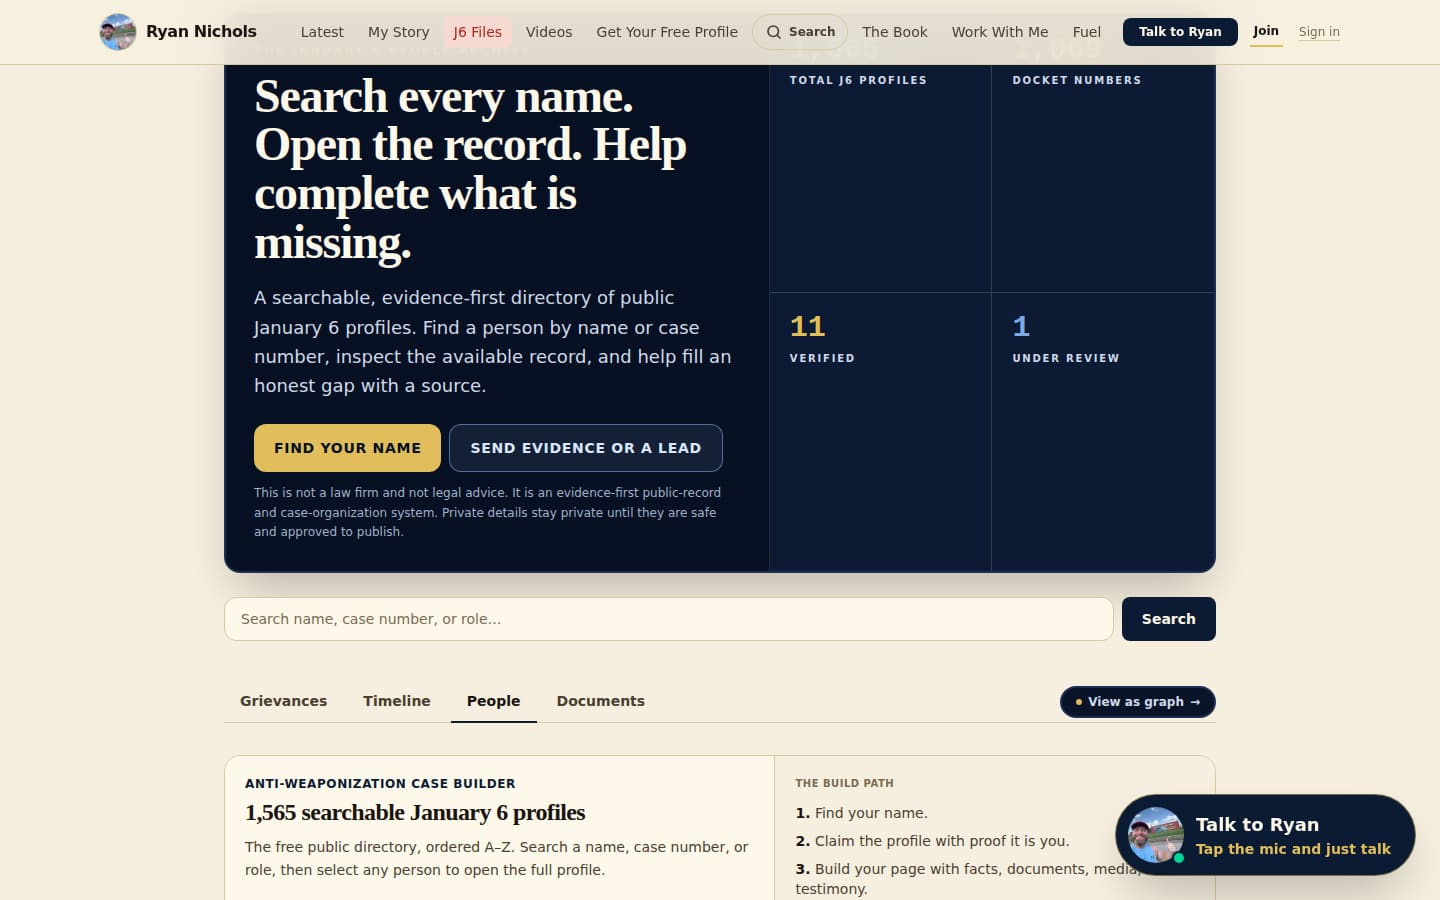
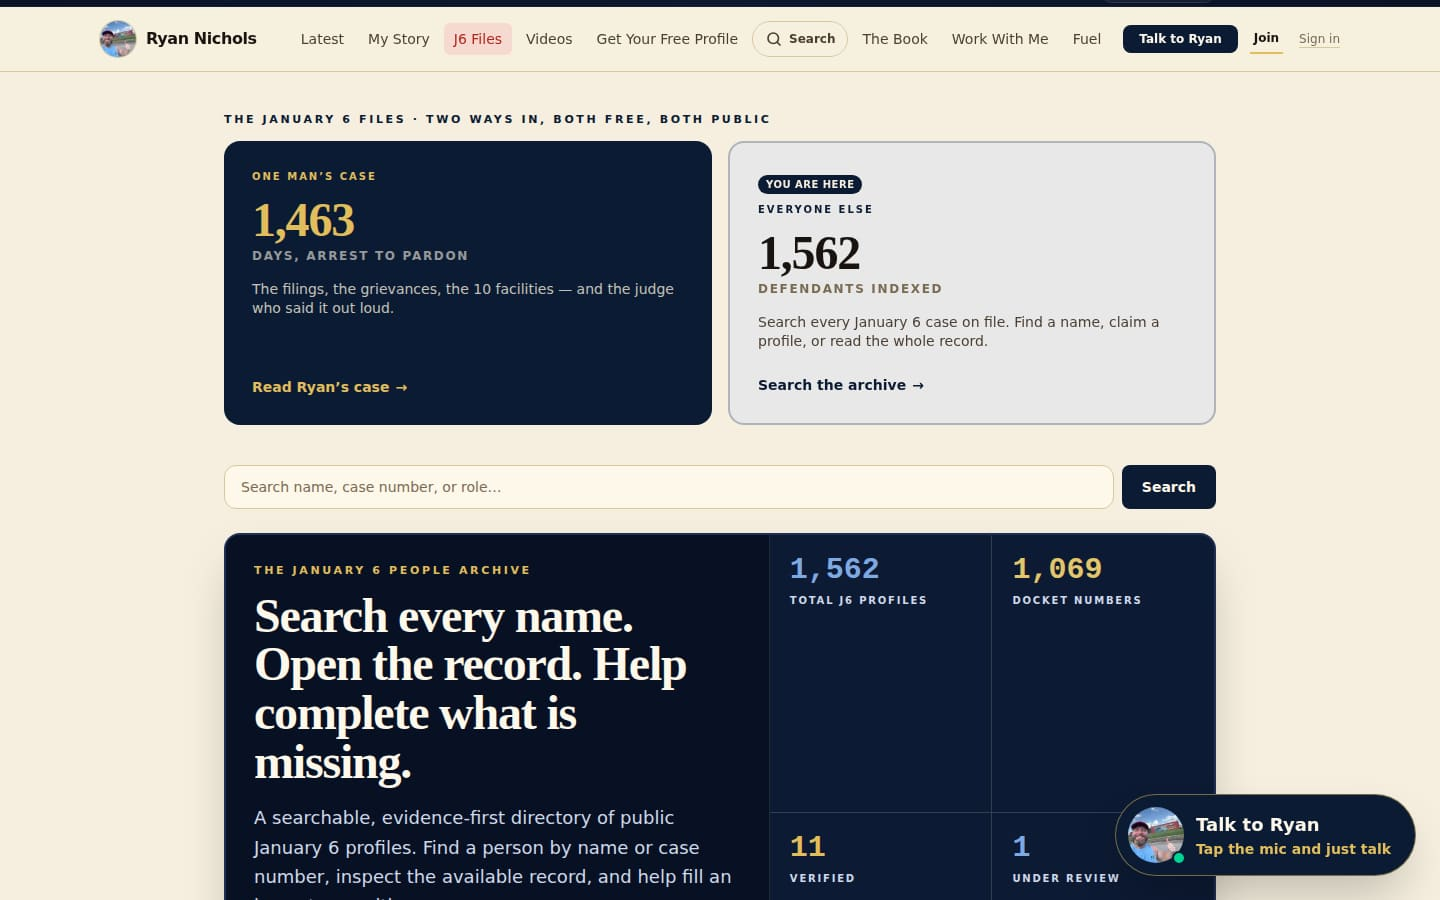
Move 11 review: a search hides the hero, so the matches follow the count
While a search is on, the people directory's hero stays out: the match
line sits directly above the bucket tabs and the matching profiles,
with no pitch to scroll past on a phone. The path split carries the h1
in that state, as it does on the archive views; while browsing the hero
keeps it. The desktop after-shots are regenerated from this build (the
committed 1440 shot was the before), and two shots of a search result
page are added.

Claude-Session: https://claude.ai/code/session_013yY82UKXnA5A6346PxQm9y

diff --git a/website/components/case/J6DirectoryHeader.tsx b/website/components/case/J6DirectoryHeader.tsx
@@ -10,7 +10,9 @@ import type { J6Filter } from "@/components/case/archive";
 // width: a family member looking for a name types it on the first screen
 // of a phone, and what is seen, tabbed, and announced agree everywhere
 // (a CSS reorder at one breakpoint moved the mismatch to the other).
-// Nothing moves on load.
+// While a search is on, the hero stays out: the match line then sits
+// directly above the tabs and the matching profiles, with no pitch to
+// scroll past on a phone. Nothing moves on load.
 export function J6DirectoryHeader({
   counts,
   j6Filter,
@@ -42,7 +44,7 @@ export function J6DirectoryHeader({
         ) : null}
       </div>
 
-      <J6DirectoryHero counts={counts} activeFilter={j6Filter} />
+      {q ? null : <J6DirectoryHero counts={counts} activeFilter={j6Filter} />}
     </header>
   );
 }

diff --git a/website/app/case/page.tsx b/website/app/case/page.tsx
@@ -185,8 +185,11 @@ export default async function CasePage({
     return (
       <div className="mx-auto max-w-5xl px-4 py-10">
         {/* Door 2 is never one-way: the split sits above the directory so
-            the way back to the anchor case is the first thing on the page. */}
-        <J6PathSplit active="everyone" className="mb-10" />
+            the way back to the anchor case is the first thing on the page.
+            The hero carries the page's h1 while browsing; while searching
+            the hero stays out, so the split carries it, as it does on the
+            archive views. */}
+        <J6PathSplit active="everyone" className="mb-10" headline={q ? "h1" : undefined} />
         <J6DirectoryHeader
           counts={j6Counts}
           j6Filter={j6Filter}
